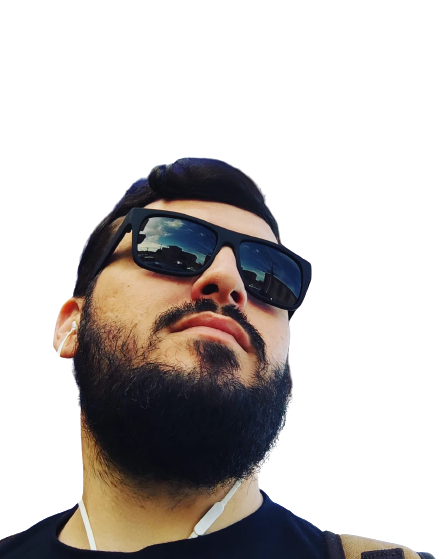
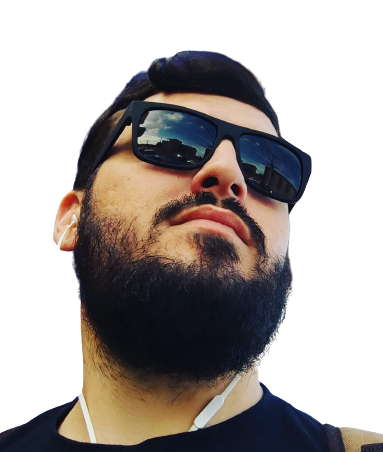
update

diff --git a/index.html b/index.html
@@ -98,7 +98,7 @@
             165.547 130.807 187.559 100.226 186.353C69.6454 185.297 41.0228 161.023 21.7403
             129.362C2.45775 97.8511 -7.48481 59.1033 6.67581 34.5279C20.9871 10.1032 59.7028
             -0.149132 97.9666 0.00163737C136.23 0.303176 174.193 10.857 190.312 36.4879Z"/>
-                                <image class="home__blob-img" x="12" y="18" xlink:href="assets/img/me.png"/>
+                                <image class="home__blob-img" x="12" y="18" xlink:href="assets/img/neweu.png"/>
                             </g>
                         </svg>
 
